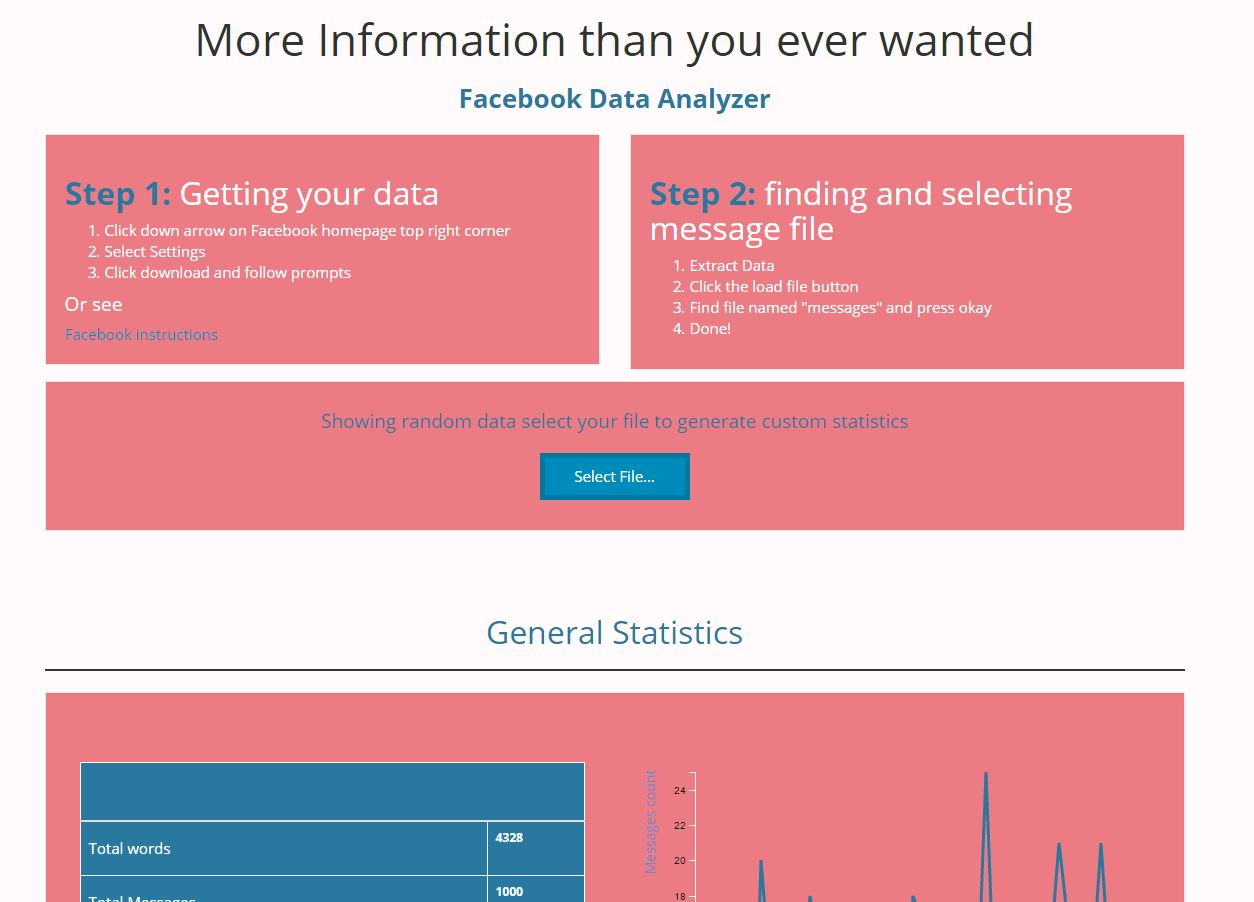
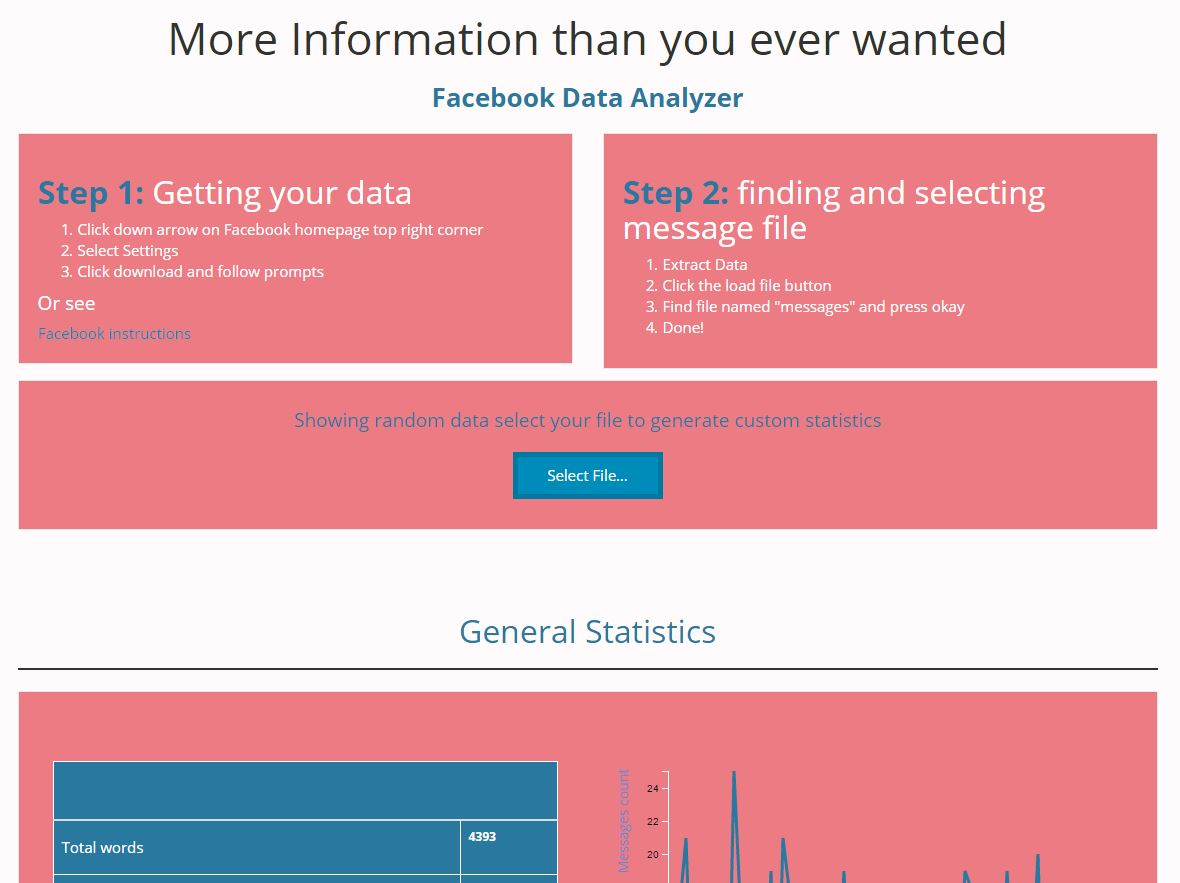
Added skills section and updated images

diff --git a/index.html b/index.html
@@ -14,6 +14,11 @@
   <!--Social Media logos-->
   <link rel="stylesheet prefetch" href="https://maxcdn.bootstrapcdn.com/font-awesome/4.7.0/css/font-awesome.min.css">
 
+  <script
+  src="https://code.jquery.com/ui/1.12.1/jquery-ui.min.js"
+  integrity="sha256-VazP97ZCwtekAsvgPBSUwPFKdrwD3unUfSGVYrahUqU="
+  crossorigin="anonymous"></script>
+
   <!--Style sheets-->
   <link rel='stylesheet' href='css/index.css' />
   <link rel='stylesheet' href='css/social.css' />
@@ -82,6 +87,8 @@
     </div>
   </div>
 
+
+
   <!--Image row-->
   <div class="row project-images">
     <div id="i-1" class="col-lg-4 text-center">
@@ -94,6 +101,37 @@
        <a href="https://github.com/vanhunick/Energy-visualisation" target="_blank"><img src="images/energy2.JPG" class="img-responsive img-center fade-elem"></img></a>
     </div>
 </div>
+
+<div class="row text-center skills" id='skills-row'>
+<h1 id="h-2" class="subtitle fade-elem" >What I can do</h1>
+<div class="col-md-6 text-left">
+  <h3>Languages</h3>
+    <section id="skills">
+          <progress value="85" max="100"></progress><span>Java</span>
+          <progress value="80" max="100"></progress><span>JavaScript</span>
+          <progress value="80" max="100"></progress><span>HTML/CSS</span>
+          <progress value="85" max="100"></progress><span>SQL</span>
+          <progress value="70" max="100"></progress><span>Ada</span>
+          <progress value="50" max="100"></progress><span>C</span>
+          <progress value="40" max="100"></progress><span>Python</span>
+          <progress value="70" max="100"></progress><span>Dutch</span>
+     </section>
+</div>
+<div class="col-md-6 text-left">
+  <h3>Libraries and other</h3>
+    <section id="skills">
+          <progress value="90" max="100"></progress><span>jQuery</span>
+          <progress value="80" max="100"></progress><span>D3</span>
+          <progress value="60" max="100"></progress><span>NodeJS</span>
+          <progress value="70" max="100"></progress><span>Express</span>
+          <progress value="85" max="100"></progress><span>Mocha/Chai</span>
+          <progress value="80" max="100"></progress><span>Agile</span>
+          <progress value="50" max="100"></progress><span>Express</span>
+          <progress value="80" max="100"></progress><span>Muay Thai</span>
+     </section>
+</div>
+    
+  </div>
 
 <!--Social media icons and links-->
 <div class="row text-center" id="social">

diff --git a/js/fade.js b/js/fade.js
@@ -1,6 +1,7 @@
 var state = "PROJECTS";
 
 $("#interests").click(function(){
+  $('#skills-row').hide();
   $(".fade-elem").fadeOut(function() {
     $('#contact-row').fadeOut();
 
@@ -58,9 +59,11 @@ $("#projects").click(function(){
     $("#interests-link").removeClass('active');
 
   }).fadeIn();
+  $('#skills-row').show();
 });
 
 $("#contact").click(function(){
+  $('#skills-row').hide();
   $(".fade-elem").fadeOut(function() {
 
     // Highlight the currently selected link
@@ -76,4 +79,12 @@ $("#contact").click(function(){
 
 $(document).ready(function() {
     $('#contact-row').hide();
+
+    $(function() {
+  $('progress').each(function() {
+    var max = $(this).val();
+    $(this).val(0).animate({ value: max }, { duration: 2000, easing: 'easeOutCirc' });
+      });
 });
+});
+

diff --git a/css/index.css b/css/index.css
@@ -90,3 +90,37 @@
     margin-bottom: 2%;
     margin-top: 2%;
 }
+
+/* Skills css*/
+.skills {
+  margin-top: 4%;
+}
+
+#skills span {
+    top: -22px;
+    left: 2%;
+    position: relative;
+    font-size: 1em;
+    /*font-weight: bolder;*/
+    font-family: monospace;
+    color: #fff;
+}
+
+progress {
+    background-color: #f3f3f3;
+    border: 0;
+    height: 2em;
+    width: 100%;
+}
+
+progress::-webkit-progress-bar {
+    background-color: #e0eaf0;
+}
+
+progress::-webkit-progress-value {
+    background-color: #329ad1;
+}
+
+progress::-moz-progress-bar {
+    background-color: #329ad1;
+}
